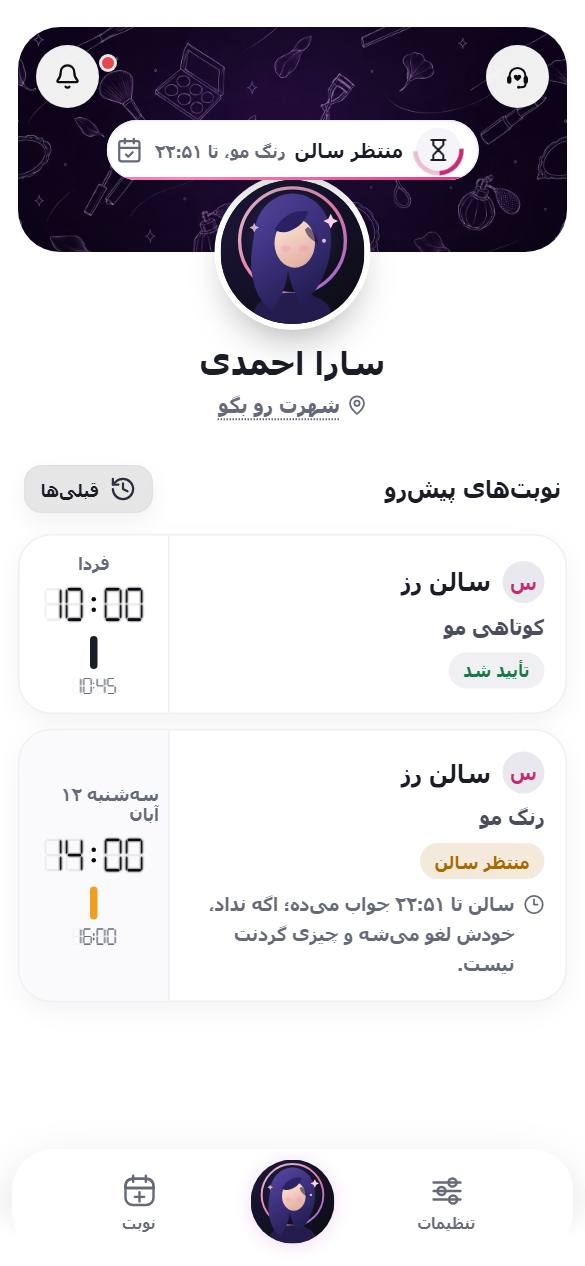
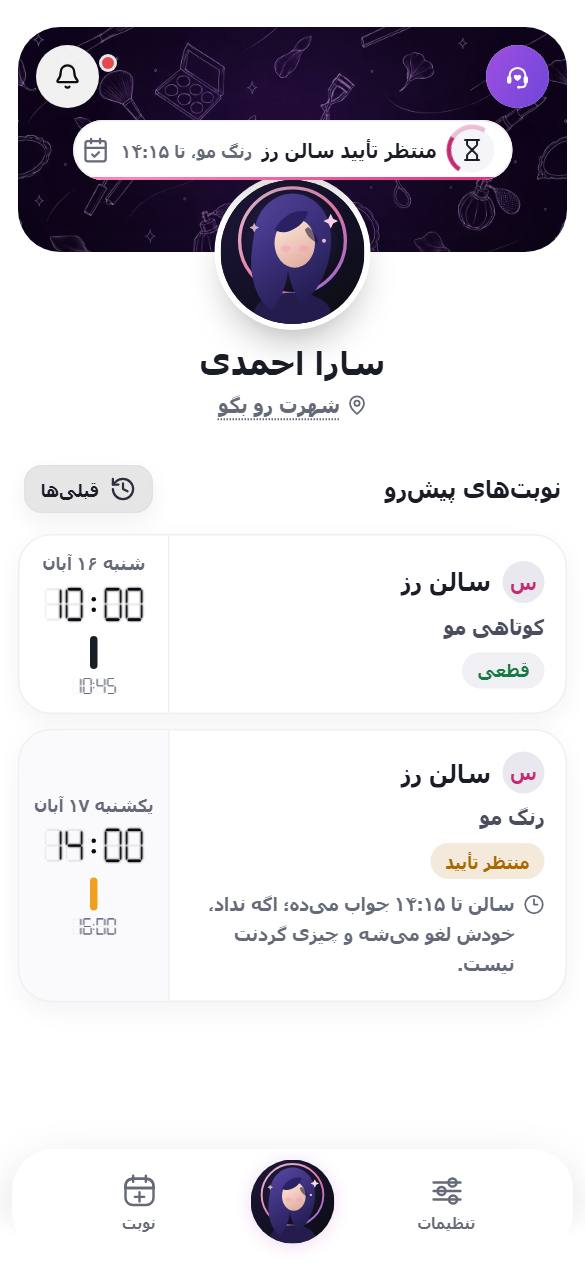
Support: a topic goes straight into the chat; the top button on a moving gradient
Picking a topic opens an empty chat with a greeting on that topic; the old form (title, 10-letter minimum, attachment
buttons) is gone, and nothing is saved until the first message. A signed-in person can open a chat with one word.
The «منتظر جواب» pill's text now passes contrast. Screens retaken.

diff --git a/app/features/support/SupportCenter.jsx b/app/features/support/SupportCenter.jsx
@@ -8,20 +8,18 @@ import { SupportIcon } from "./SupportIcon";
 import { notifySupportRead } from "./supportEvents";
 import { useBackHandler } from "../../shared/hooks/useBackHandler";
 import { MessageAttachments } from "./Attachments";
-import { AttachmentField, Composer } from "./Composer";
-import { Spinner } from "../../components/Spinner";
+import { Composer } from "./Composer";
 import { SkeletonList } from "../../components/Skeleton";
 
-// value, label, icon, one line that says when to pick it, and what to write in the box.
+// value, label, icon, one line that says when to pick it, and the first line of the chat (shown here, never stored).
 const TOPICS = [
-  ["question", "سؤال", CircleHelp, "یه چیزی میخوام بدونم", "سؤالت رو بنویس…"],
-  ["bug", "مشکل فنی", Bug, "یه چیزی کار نمیکنه", "داشتی چی کار میکردی و چی شد؟ اگه راحتتری، عکس صفحه رو بفرست."],
-  ["account", "مشکل حساب", UserRoundCog, "ورود، شماره، اشتراک", "مشکل حسابت رو بنویس…"],
-  ["complaint", "شکایت", MessageSquareWarning, "از کسی یا چیزی راضی نبودم", "ماجرا رو بنویس؛ اگه از یه سالن یا آرتیسته، اسمش رو هم بگو."],
-  ["other", "سایر", Ellipsis, "هیچکدوم از اینا", "هر چی میخوای بنویس…"]
+  ["question", "سؤال", CircleHelp, "یه چیزی میخوام بدونم", "سلام! سؤالت چیه؟"],
+  ["bug", "مشکل فنی", Bug, "یه چیزی کار نمیکنه", "سلام! داشتی چی کار میکردی و چی شد؟ اگه راحتتری، عکس صفحه رو بفرست."],
+  ["account", "مشکل حساب", UserRoundCog, "ورود، شماره، اشتراک", "سلام! مشکل حسابت چیه؟"],
+  ["complaint", "شکایت", MessageSquareWarning, "از کسی یا چیزی راضی نبودم", "سلام! ماجرا چی بود؟ اگه از یه سالن یا آرتیسته، اسمش رو هم بگو."],
+  ["other", "سایر", Ellipsis, "هیچکدوم از اینا", "سلام! بگو چی شده."]
 ];
 const CATEGORY_LABEL = Object.fromEntries(TOPICS.map(([value, label]) => [value, label]));
-const MIN_MESSAGE = 10;
 const REASON_LABEL = { spam: "اسپم یا تبلیغ", inappropriate: "محتوای نامناسب", fake: "جعلی یا گمراهکننده", copyright: "کپی از کار دیگران", other: "سایر" };
 
 const digits = (value) => String(value).replace(/\d/g, (d) => "۰۱۲۳۴۵۶۷۸۹"[d]);
@@ -138,23 +136,31 @@ function TicketList({ onOpen, onNew }) {
   );
 }
 
-function Thread({ id }) {
-  const [data, setData] = useState(null);
+/**
+ * One conversation. With `draft` ({ category, subject }) it opens as an empty chat on the picked topic: nothing exists
+ * on the server until the first message goes out, so backing out leaves no empty conversation behind.
+ */
+function Thread({ id: startId = null, draft = null }) {
+  const [id, setId] = useState(startId);
+  const [data, setData] = useState(startId ? null : { ticket: { kind: "support", status: "open", category: draft?.category, subject: draft?.subject }, messages: [] });
   // Messages on their way: shown at once (with a clock) so sending a picture or a voice note never feels stuck.
   const [pending, setPending] = useState([]);
   const endRef = useRef(null);
 
-  const load = useCallback(async (silent = false) => {
-    const { ok, payload = {} } = await apiFetch(`/api/support/tickets/${id}`).catch(() => ({ ok: false }));
-    if (ok) setData(payload.data);
-    else if (!silent) setData({ error: payload.error || "نیومد؛ دوباره بزن." });
+  const load = useCallback(async (ticketId, silent = false, onLoaded) => {
+    const { ok, payload = {} } = await apiFetch(`/api/support/tickets/${ticketId}`).catch(() => ({ ok: false }));
+    if (ok) {
+      setData(payload.data);
+      onLoaded?.(); // same update, so a sent message is never on screen twice
+    } else if (!silent) setData({ error: payload.error || "نیومد؛ دوباره بزن." });
     notifySupportRead();
-  }, [id]);
+  }, []);
   useEffect(() => {
-    load();
-    const timer = setInterval(() => load(true), 15_000);
+    if (!id) return undefined;
+    load(id);
+    const timer = setInterval(() => load(id, true), 15_000);
     return () => clearInterval(timer);
-  }, [load]);
+  }, [id, load]);
   const count = (data?.messages?.length || 0) + pending.length;
   useEffect(() => {
     endRef.current?.scrollIntoView({ block: "end", behavior: "smooth" });
@@ -166,12 +172,19 @@ function Thread({ id }) {
     setPending((prev) => [...prev, { key, body: message, attachments: preview }]);
     let result;
     try {
-      result = await apiFetch(`/api/support/tickets/${id}`, { method: "POST", body: JSON.stringify({ message, attachments }) });
+      result = id
+        ? await apiFetch(`/api/support/tickets/${id}`, { method: "POST", body: JSON.stringify({ message, attachments }) })
+        : await apiFetch("/api/support", { method: "POST", body: JSON.stringify({ category: draft?.category, subject: draft?.subject, message, attachments }) });
     } catch {
       result = { ok: false, payload: { error: "اینترنتت وصل نیست؛ یه نگاه بنداز و دوباره بزن." } };
     }
-    if (result.ok) await load(true);
-    setPending((prev) => prev.filter((item) => item.key !== key));
+    const clearPending = () => setPending((prev) => prev.filter((item) => item.key !== key));
+    if (result.ok) {
+      const ticketId = id ?? result.payload.data.id;
+      await load(ticketId, true, clearPending);
+      setId(ticketId);
+    }
+    clearPending();
     if (!result.ok) {
       setData((prev) => ({ ...prev, sendError: result.payload.error || "نرفت؛ دوباره بزن." }));
       return false;
@@ -189,8 +202,16 @@ function Thread({ id }) {
       <div className="scThread" aria-live="polite">
         <div className="scThreadHead">
           <b>{titleOf(ticket)}</b>
-          <StatePill ticket={ticket} />
+          {id ? <StatePill ticket={ticket} /> : null}
         </div>
+        {draft ? (
+          <div className="scGroup">
+            <div className="scMsg is-admin">
+              <small className="scWho"><SupportIcon size={13} /> پشتیبانی فرفرو</small>
+              <p>{(TOPICS.find(([value]) => value === draft.category) || TOPICS[0])[4]}</p>
+            </div>
+          </div>
+        ) : null}
         {ticket.kind === "report" ? <p className="scInfo">گزارشت رسید و بررسیش میکنیم. هر خبری بود همینجا مینویسیم.{ticket.category ? ` (دلیل: ${REASON_LABEL[ticket.category] || ticket.category})` : ""}</p> : null}
         {messages.map((message, index) => {
           const previous = messages[index - 1];
@@ -221,7 +242,7 @@ function Thread({ id }) {
             </div>
           </div>
         ))}
-        {!messages.length ? <p className="scMuted">هنوز پیامی اینجا نیست.</p> : null}
+        {!messages.length && !draft ? <p className="scMuted">هنوز پیامی اینجا نیست.</p> : null}
         {closed ? <p className="scInfo">این گفتگو بسته شده؛ پیام بدی دوباره باز میشه.</p> : null}
         <div ref={endRef} />
       </div>
@@ -231,62 +252,14 @@ function Thread({ id }) {
   );
 }
 
-// The topic is picked on the list (or comes from where support was opened); the form only asks for the message.
-function NewTicket({ category = "question", initialSubject = "", onCreated }) {
-  const [subject, setSubject] = useState(initialSubject);
-  const [message, setMessage] = useState("");
-  const [attachments, setAttachments] = useState([]);
-  const [busy, setBusy] = useState(false);
-  const [error, setError] = useState("");
-  const topic = TOPICS.find(([value]) => value === category) || TOPICS[0];
-  const length = message.trim().length;
-  const ready = attachments.length > 0 || length >= MIN_MESSAGE;
-
-  async function submit(event) {
-    event.preventDefault();
-    if (busy || !ready) return;
-    setBusy(true);
-    setError("");
-    const { ok, payload } = await apiFetch("/api/support", { method: "POST", body: JSON.stringify({ category, subject, message, attachments }) }).catch(() => ({ ok: false, payload: { error: "اینترنتت وصل نیست؛ یه نگاه بنداز و دوباره بزن." } }));
-    setBusy(false);
-    if (ok) onCreated(payload.data.id);
-    else setError(payload.error || "نرفت؛ دوباره بزن.");
-  }
-
-  return (
-    <form className="scForm" onSubmit={submit}>
-      <div className="scBody">
-        <label className="scField">
-          <span>پیامت</span>
-          <textarea rows={6} value={message} maxLength={2000} onChange={(event) => setMessage(event.target.value)} placeholder={topic[4]} />
-          <em className={`scCounter${length >= MIN_MESSAGE ? " is-ok" : ""}`} aria-live="polite">
-            {attachments.length ? "عکس یا صدا هم کافیه" : length >= MIN_MESSAGE ? <><Check size={13} aria-hidden="true" /> آمادهست</> : `دستکم ${digits(MIN_MESSAGE)} حرف بنویس (${digits(length)} از ${digits(MIN_MESSAGE)})`}
-          </em>
-        </label>
-        <AttachmentField value={attachments} onChange={setAttachments} />
-        <label className="scField">
-          <span>عنوان <small>(اگه بخوای)</small></span>
-          <input type="text" value={subject} maxLength={120} onChange={(event) => setSubject(event.target.value)} placeholder="مثلاً: نوبتم ثبت نشد" />
-        </label>
-      </div>
-      <footer className="scFoot">
-        {error ? <p className="scError" role="alert">{error}</p> : null}
-        <button type="submit" className="scPrimary" disabled={busy || !ready} aria-busy={busy || undefined}>
-          {busy ? <><Spinner size={18} current /> دارم میفرستم…</> : "بفرست"}
-        </button>
-      </footer>
-    </form>
-  );
-}
-
 /**
- * The whole support experience in one sheet: my conversations, one conversation (read replies, keep writing),
- * and a new message. `initial` can jump straight to a conversation ({ ticketId }) or the new-message form
- * ({ view: "new", category?, subject? }, e.g. a complaint already titled with a salon's name).
+ * The whole support experience in one sheet: my conversations and one conversation. Picking a topic goes straight into
+ * a chat. `initial` can jump to a conversation ({ ticketId }) or a new chat ({ view: "new", category?, subject? }, e.g.
+ * a complaint already titled with a salon's name).
  */
 export function SupportCenter({ initial = {}, onClose }) {
   useBackHandler(true, onClose);
-  const [view, setView] = useState(initial.ticketId ? { name: "thread", id: initial.ticketId } : initial.view === "new" ? { name: "new", category: initial.category, subject: initial.subject } : { name: "list" });
+  const [view, setView] = useState(initial.ticketId ? { name: "thread", id: initial.ticketId } : initial.view === "new" ? { name: "thread", draft: { category: initial.category || "question", subject: initial.subject } } : { name: "list" });
   const sheetRef = useRef(null);
   const closeRef = useRef(onClose);
   useEffect(() => {
@@ -307,7 +280,7 @@ export function SupportCenter({ initial = {}, onClose }) {
   if (typeof document === "undefined") return null;
 
   const inList = view.name === "list";
-  const title = view.name === "new" ? (TOPICS.find(([value]) => value === view.category) || TOPICS[0])[1] : view.name === "thread" ? "گفتگو" : "پشتیبانی";
+  const title = view.name === "thread" ? "گفتگو" : "پشتیبانی";
   return createPortal(
     <div className="scOverlay" onClick={onClose}>
       <div className="scSheet" role="dialog" aria-modal="true" aria-label="پشتیبانی" tabIndex={-1} ref={sheetRef} onClick={(event) => event.stopPropagation()}>
@@ -322,9 +295,8 @@ export function SupportCenter({ initial = {}, onClose }) {
           <h3>{title}</h3>
           <button type="button" className="scIconBtn" onClick={onClose} aria-label="بستن پشتیبانی"><X size={19} aria-hidden="true" /></button>
         </header>
-        {view.name === "list" ? <TicketList onOpen={(id) => setView({ name: "thread", id })} onNew={(category) => setView({ name: "new", category })} /> : null}
-        {view.name === "thread" ? <Thread key={view.id} id={view.id} /> : null}
-        {view.name === "new" ? <NewTicket category={view.category} initialSubject={view.subject} onCreated={(id) => setView({ name: "thread", id })} /> : null}
+        {view.name === "list" ? <TicketList onOpen={(id) => setView({ name: "thread", id })} onNew={(category) => setView({ name: "thread", draft: { category } })} /> : null}
+        {view.name === "thread" ? <Thread key={view.id ?? "new"} id={view.id} draft={view.draft} /> : null}
       </div>
     </div>,
     document.body

diff --git a/app/styles/features/support.css b/app/styles/features/support.css
@@ -32,6 +32,12 @@
 /* It takes the look of the bell beside it (.profileHeroActions button, .cphBell); only the unread badge is its own. */
 .profileHeroActionsPair { display: flex; align-items: center; gap: 7px; pointer-events: auto; }
 .supportTopBtn { position: relative; cursor: pointer; }
+/* A moving brand gradient so people find support (owner, 2026-11-05). It is a layer inside the button, so it looks the same on every home page. */
+.supportTopGlow { position: absolute; inset: 0; display: grid; place-items: center; border-radius: inherit; background: var(--brand-blend-deep); background-size: 300% 300%; color: var(--on-photo); animation: supportGlow 5s ease-in-out infinite alternate; }
+/* Older hero rules colour every icon with !important; on the gradient this one must stay white. */
+.supportTopBtn .supportTopGlow svg { color: var(--on-photo) !important; }
+@keyframes supportGlow { from { background-position: 0% 50%; } to { background-position: 100% 50%; } }
+@media (prefers-reduced-motion: reduce) { .supportTopGlow { animation: none; } }
 /* Client home: the bell stays on the left, support goes to the right corner, so their dots never touch (owner, 2026-11-01). */
 .profileHero.cphHero .cphBell.cphSupport { left: auto; right: 12px; }
 .supportTopBadge { position: absolute; top: -5px; inset-inline-end: -5px; display: grid; place-items: center; min-width: 20px; height: 20px; padding: 0 5px; border-radius: 10px; background: var(--fill-hot); color: var(--n-0); font-style: normal; font-size: 0.68rem; font-weight: 900; box-shadow: 0 0 0 2px var(--n-0); }
@@ -46,8 +52,6 @@
 .scHeadIcon { display: grid; place-items: center; width: 40px; height: 40px; border-radius: 14px; background: var(--fill-strong); color: var(--n-0); }
 .scIconBtn { display: grid; place-items: center; width: 40px; height: 40px; border: 0; border-radius: 50%; background: var(--n-100); color: var(--ink); cursor: pointer; }
 .scBody { flex: 1; overflow-y: auto; display: grid; align-content: start; gap: var(--space-3); padding: var(--space-4); }
-.scPrimary { display: inline-flex; align-items: center; justify-content: center; gap: 8px; min-height: 50px; border: 0; border-radius: var(--radius-pill); background: var(--fill-strong); color: var(--n-0); font: inherit; font-size: var(--text-md); font-weight: 850; cursor: pointer; }
-.scPrimary:disabled { opacity: 0.45; cursor: not-allowed; }
 .scMuted { margin: 0; color: var(--n-700); font-weight: 650; text-align: center; padding: var(--space-4) 0; }
 .scError { margin: 0; color: var(--danger); font-size: var(--text-sm); font-weight: 750; }
 .scEmpty { display: grid; justify-items: center; gap: 8px; padding: var(--space-6) var(--space-4); text-align: center; }
@@ -65,7 +69,8 @@
 .scItemMeta time { color: var(--n-600); font-size: 0.72rem; font-weight: 650; }
 .scDot { position: absolute; top: 10px; inset-inline-start: 10px; width: 10px; height: 10px; border-radius: 50%; background: var(--signal-hot); box-shadow: 0 0 0 3px var(--n-0); }
 .scState { padding: 2px 9px; border-radius: var(--radius-pill); font-size: 0.7rem; font-weight: 850; background: var(--n-100); color: var(--n-700); }
-.scState.is-waiting { background: rgb(var(--warning-rgb) / 0.14); color: var(--warning); }
+.scState.is-waiting { background: var(--warning-bg); color: var(--n-800); }
+.scState.is-waiting i { background: var(--warning); }
 .scState.is-answered { background: var(--n-100); color: var(--success); }
 .scState.is-closed { background: var(--n-100); color: var(--n-700); }
 
@@ -88,10 +93,6 @@
 .scSend:disabled { opacity: 0.4; cursor: not-allowed; }
 .scSend svg { transform: scaleX(-1); }
 
-.scField { display: grid; gap: 6px; }
-.scField > span { color: var(--n-700); font-size: var(--text-sm); font-weight: 800; }
-.scField :where(input, textarea) { width: 100%; padding: 12px var(--space-4); border: 0; border-radius: var(--radius-md); background: var(--n-0); box-shadow: inset 0 0 0 1px var(--line); color: var(--ink); font: inherit; font-size: var(--text-md); line-height: 1.8; resize: vertical; }
-.scField :where(input, textarea):focus-visible { outline: 2px solid var(--night); outline-offset: 1px; }
 
 /* ---------- Pictures and voice notes in the support chat (features/support/Attachments.jsx, Composer.jsx) ---------- */
 .scGroup.is-grouped { margin-top: -4px; }
@@ -221,15 +222,6 @@
 .scState.is-answered i { background: var(--success); }
 .scState.is-closed i { opacity: 0.5; }
 
-.scForm { flex: 1; min-height: 0; display: flex; flex-direction: column; }
-.scForm .scBody { gap: var(--space-4); }
-.scField > span small { color: var(--n-600); font-weight: 650; }
-.scField textarea { min-height: 140px; }
-.scCounter { display: inline-flex; align-items: center; gap: 4px; justify-self: end; font-style: normal; font-size: 0.72rem; font-weight: 750; color: var(--n-600); font-variant-numeric: tabular-nums; }
-.scCounter.is-ok { color: var(--success); }
-.scFoot { flex: 0 0 auto; display: grid; gap: 8px; padding: 10px var(--space-4) calc(10px + env(safe-area-inset-bottom)); background: var(--n-0); box-shadow: 0 -1px 0 var(--line), 0 -12px 24px -16px rgb(var(--shadow-rgb) / 0.18); }
-.scFoot .scError { justify-content: center; }
-.scPrimary[aria-busy="true"] { cursor: progress; opacity: 1; }
 
 /* ---- composer: one rounded box, text on top, round buttons underneath (shared look with the admin chat) ---- */
 .scComposer { background: transparent; box-shadow: none; padding: 8px 12px calc(10px + env(safe-area-inset-bottom)); }

diff --git a/tests/e2e/flows.test.js b/tests/e2e/flows.test.js
@@ -744,11 +744,12 @@ describe("support (browser)", () => {
       return result.violations.filter((v) => v.impact === "serious" || v.impact === "critical").map((v) => `${v.id}: ${v.nodes[0].html.slice(0, 80)}`);
     });
     expect(await axeIssues()).toEqual([]);
-    // The topic cards start a new message with that topic already chosen.
+    // A topic goes straight into the chat: no form, no title, no least length.
     await center.getByRole("button", { name: /^سؤال/ }).click();
-    await center.getByLabel("پیامت").fill("سلام، این یک پیام آزمایشی از مرورگر برای پشتیبانی است.");
-    await center.getByRole("button", { name: "بفرست" }).click();
-    await center.getByText("سلام، این یک پیام آزمایشی از مرورگر برای پشتیبانی است.").waitFor();
+    await center.getByText("سلام! سؤالت چیه؟").waitFor();
+    await center.getByLabel("پیام", { exact: true }).fill("سلام، این یک پیام آزمایشی از مرورگر برای پشتیبانی است.");
+    await center.getByRole("button", { name: "ارسال", exact: true }).click();
+    await center.locator(".scMsg.is-user:not(.is-pending)").getByText("سلام، این یک پیام آزمایشی از مرورگر برای پشتیبانی است.").waitFor();
     expect(await axeIssues()).toEqual([]);
 
     // The admin answers; after a reload the button shows an unread badge and the reply is in the conversation.

diff --git a/app/features/support/SupportButton.jsx b/app/features/support/SupportButton.jsx
@@ -4,7 +4,7 @@ import { useEffect, useState } from "react";
 import { SupportIcon } from "./SupportIcon";
 import { onSupportUnread, openSupport, supportUnread } from "./supportEvents";
 
-/** The small support button at the top of the home page, next to the bell; a dot with a number shows unread replies. */
+/** The small support button at the top of the home page, next to the bell, on a moving gradient so it gets seen; a dot with a number shows unread replies. */
 export function SupportButton({ className = "", size = 17 }) {
   const [unread, setUnread] = useState(supportUnread);
   useEffect(() => onSupportUnread(setUnread), []);
@@ -16,7 +16,7 @@ export function SupportButton({ className = "", size = 17 }) {
       aria-label={unread ? `پشتیبانی، ${unread} پاسخ جدید` : "پشتیبانی"}
       title="پشتیبانی"
     >
-      <SupportIcon size={size} />
+      <span className="supportTopGlow"><SupportIcon size={size} /></span>
       {unread ? <i className="supportTopBadge" aria-hidden="true">{String(unread > 9 ? "9+" : unread).replace(/\d/g, (d) => "۰۱۲۳۴۵۶۷۸۹"[d])}</i> : null}
     </button>
   );

diff --git a/app/api/support/route.js b/app/api/support/route.js
@@ -26,8 +26,9 @@ async function _POST(request) {
   const message = String(body.message || "").trim();
   const files = parseAttachments(body.attachments);
   if (!files.ok) return error(files.error, 400);
-  // A screenshot or a voice note says enough on its own; plain text needs a few words.
-  if (!files.items.length && message.length < 10) return error("یه کم بیشتر بنویس (دستکم ۱۰ حرف).", 400);
+  // A signed-in person is in a chat, so «سلام» is enough. A guest gets one message, which has to say something.
+  if (!files.items.length && !message) return error("پیامت رو بنویس.", 400);
+  if (!user && !files.items.length && message.length < 10) return error("یه کم بیشتر بنویس (دستکم ۱۰ حرف).", 400);
   if (message.length > 2000) return error("پیامت خیلی بلنده (حداکثر ۲۰۰۰ حرف).", 400);
 
   let phone = user?.phone || "";

diff --git a/tests/integration/support.test.js b/tests/integration/support.test.js
@@ -30,6 +30,13 @@ describe("support messages (public)", () => {
     expect(guest.payload.data.tickets[0].phone).toBe(guestPhone);
   });
 
+  it("lets a signed-in person open a chat with one word, but not with nothing", async () => {
+    const user = createClient();
+    await registerUser(user, { type: "client", name: "چت کوتاه" });
+    expect((await user.post("/api/support", { category: "question", message: "سلام" })).status).toBe(201);
+    expect((await user.post("/api/support", { category: "question", message: "   " })).status).toBe(400);
+  });
+
   it("refuses too-short messages, and a guest without a usable phone", async () => {
     const guest = createClient();
     expect((await guest.post("/api/support", { message: "کوتاه", phone: uniquePhone() })).status).toBe(400);

diff --git a/app/features/support/supportEvents.js b/app/features/support/supportEvents.js
@@ -2,7 +2,7 @@
 const OPEN_EVENT = "frfro:open-support";
 const READ_EVENT = "frfro:support-read";
 
-/** Opens the support center. { ticketId } jumps straight into that conversation; { view: "new" } opens the new-message form. */
+/** Opens the support center. { ticketId } jumps straight into that conversation; { view: "new" } opens a new chat. */
 export function openSupport(detail = {}) {
   if (typeof window !== "undefined") window.dispatchEvent(new CustomEvent(OPEN_EVENT, { detail }));
 }

diff --git a/docs/DECISIONS.md b/docs/DECISIONS.md
@@ -180,3 +180,4 @@ One line each, dated. Claude reads this before asking questions.
 - 2026-11-04 (owner, «خوبه، کارت خوب بود» on the «فرفرو یکدست» page and the team tab / artist's salon page / auto-confirm page): the suggestions stand, with one change: the salon's tab stays «پرسنل» and the artist's stays «همکاری» («اون بخش همکاری و پرسنل… نگه دار چون باید متفاوت باشه»); no rename to «تیم». The build waits for Vercel-or-main and the answers on the «اومد توی تیمت» notice (an artist joining a team today only sends a push, so the owner's salon heard nothing).
 - 2026-11-04 (owner, «تقریبا عالیه… موافقم، همین کارو بکن، تستش بکن، بفرستش روی سرور»; all recommended answers of the «فرفرو یکدست» page and the team / auto-confirm page): (1) An artist joining a salon's team is told to the side that did not tap (artist accepts the invite → the salon; the salon accepts the artist's request → the artist), like leaving: a card inside the app until «باشه» (salon: «<name> اومد توی تیمت» / «از الان نوبتها رو میتونی به اسمش ثبت کنی.» with «ببینمش»; artist: «حالا توی تیم <salon> هستی» / «روزها و ساعتت توی همکاری هست.»), a push, and an SMS only when the push did not reach their Android app (a new TEAM_JOINED pattern; until it is approved, card and push only). A new invite or request gets no SMS, only the push. (2) «تأیید خودکار» (was «تأیید سریع نوبت») is also a switch on the artist's «نوبتها» tab; turning it on leaves waiting requests as they are; with it on, a client never sees «اگه آرتیست دیر جواب داد». (3) One day/time picker everywhere (day tiles with «پر» and «تعطیل», the picked day and time pink), one service list with pink ticks and a pink «رزرو «<service>»» button («یه کار انتخاب کن» before a pick), four status words for clients, salons and artists (display only: «منتظر تأیید», «قطعی», «لغو شد», «انجام شد»), the chain icon on «وصل شو» everywhere. (4) The salon's «پرسنل» tab is one list: no «لیست | امروز» switch and no chart; each person's day in words and «سرکاره» only while they really are. (5) The artist's salon page: one «من اینجا» card (real days, hours, share, a small line when the days differ from the terms) and a short list («شرایط کار», «حساب من با …», «خودت توی صفحهٔ سالن», «ساعت و قوانین سالن»); «مشتری خودش» reads «سهمت از مشتری خودت». (6) Tested by Claude, then straight to the main server; afterwards a wider review of confusing, repeated or weak places, with a load test on the local Docker.
 - 2026-11-04 (owner, on the reel/deploy/motion plan https://claude.ai/artifact/G8ANLmdcm15jdnVW3R1PTw: «همه رو موافقم، ترکیب پ و ب»): the reel link is `frfro.ir/go` (`?s=` tags the source, visits counted); its one big button is «ورود به فرفرو» in the browser, Android download only as a quiet line in a real browser; the reel is posted normally first, paid promotion later maybe. The hero film becomes frameless CSS motion graphics mixing «لایههای کاغذی» and «نور مایع», with much shorter page copy. A GitHub button deploys `main` to the main server from any device (`deploy-main.yml`), after a connection check first.
+- 2026-11-05 (owner): picking a support topic goes straight into the chat: no form, no title field, no 10-letter minimum for a signed-in person («سلام» is enough). The first line is a greeting on that topic from support; it is only shown, never stored, and nothing is saved until the first message goes out. A new chat each time (an old open conversation on the same topic is not reopened). Links that open support with a subject (a complaint about a salon, «نیومد» اشتباهه) open the same chat with that subject on top. The support button at the top of the three home pages sits on a moving pink-to-violet gradient so it gets seen; it stands still for people who turned motion off.
